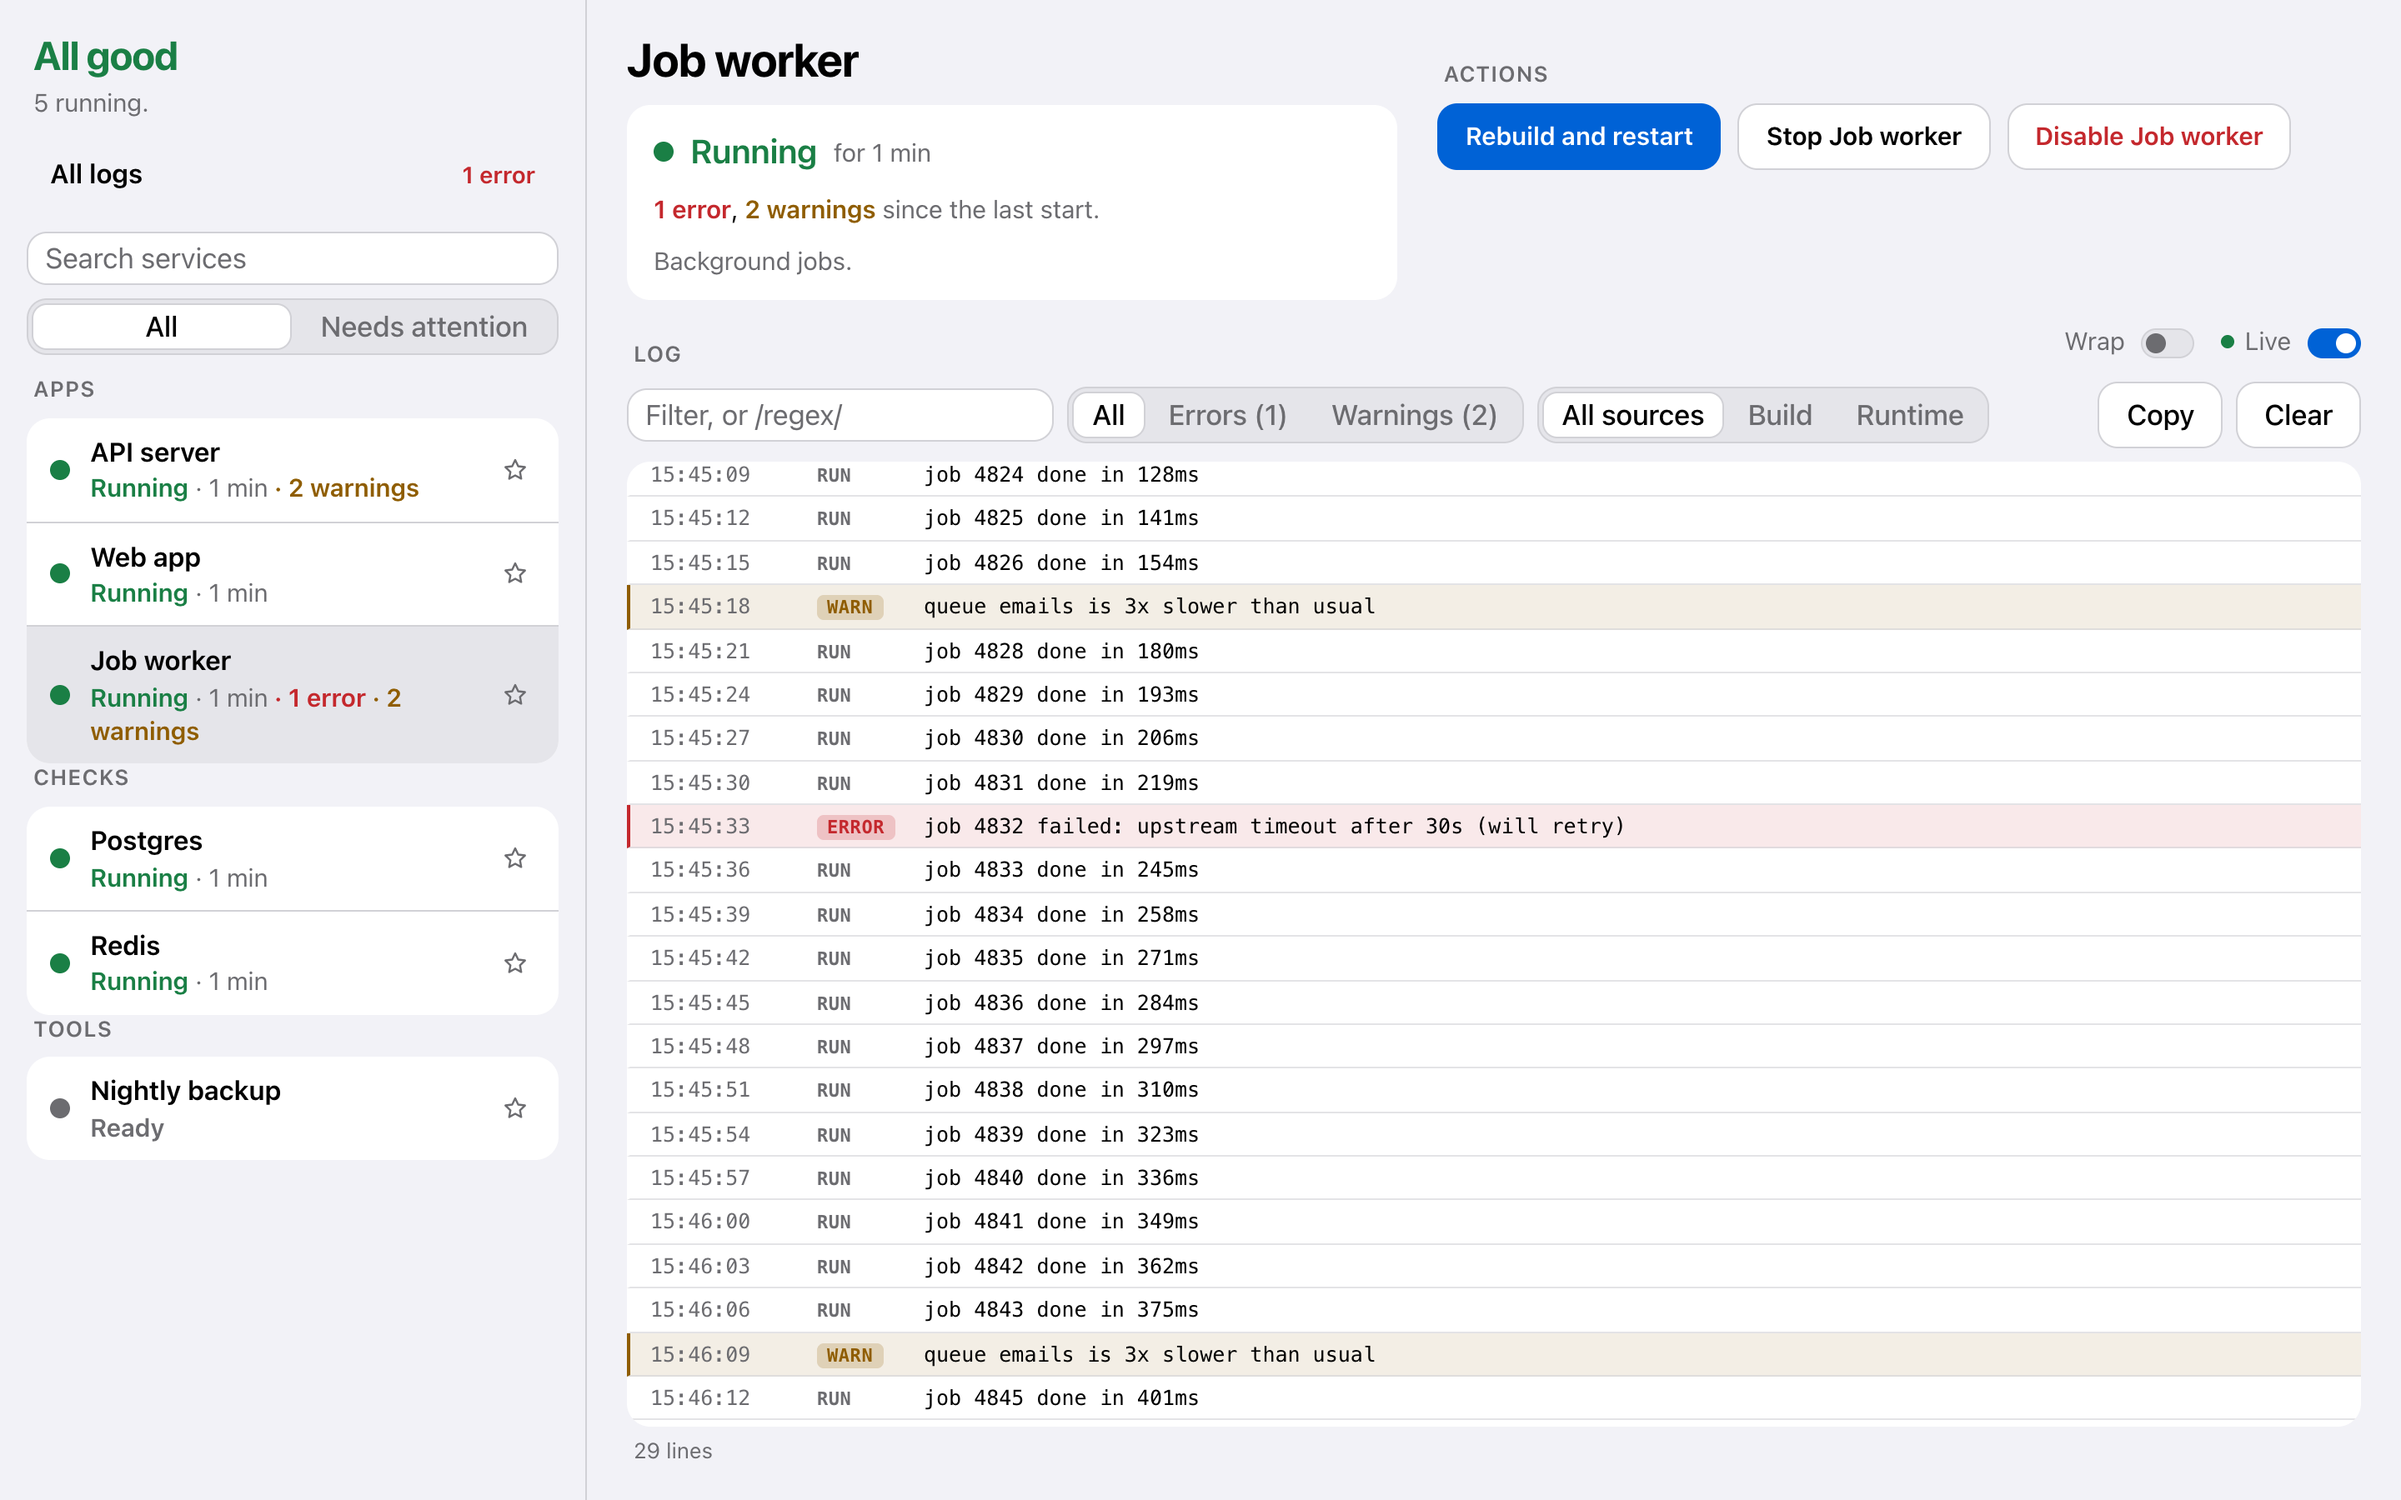
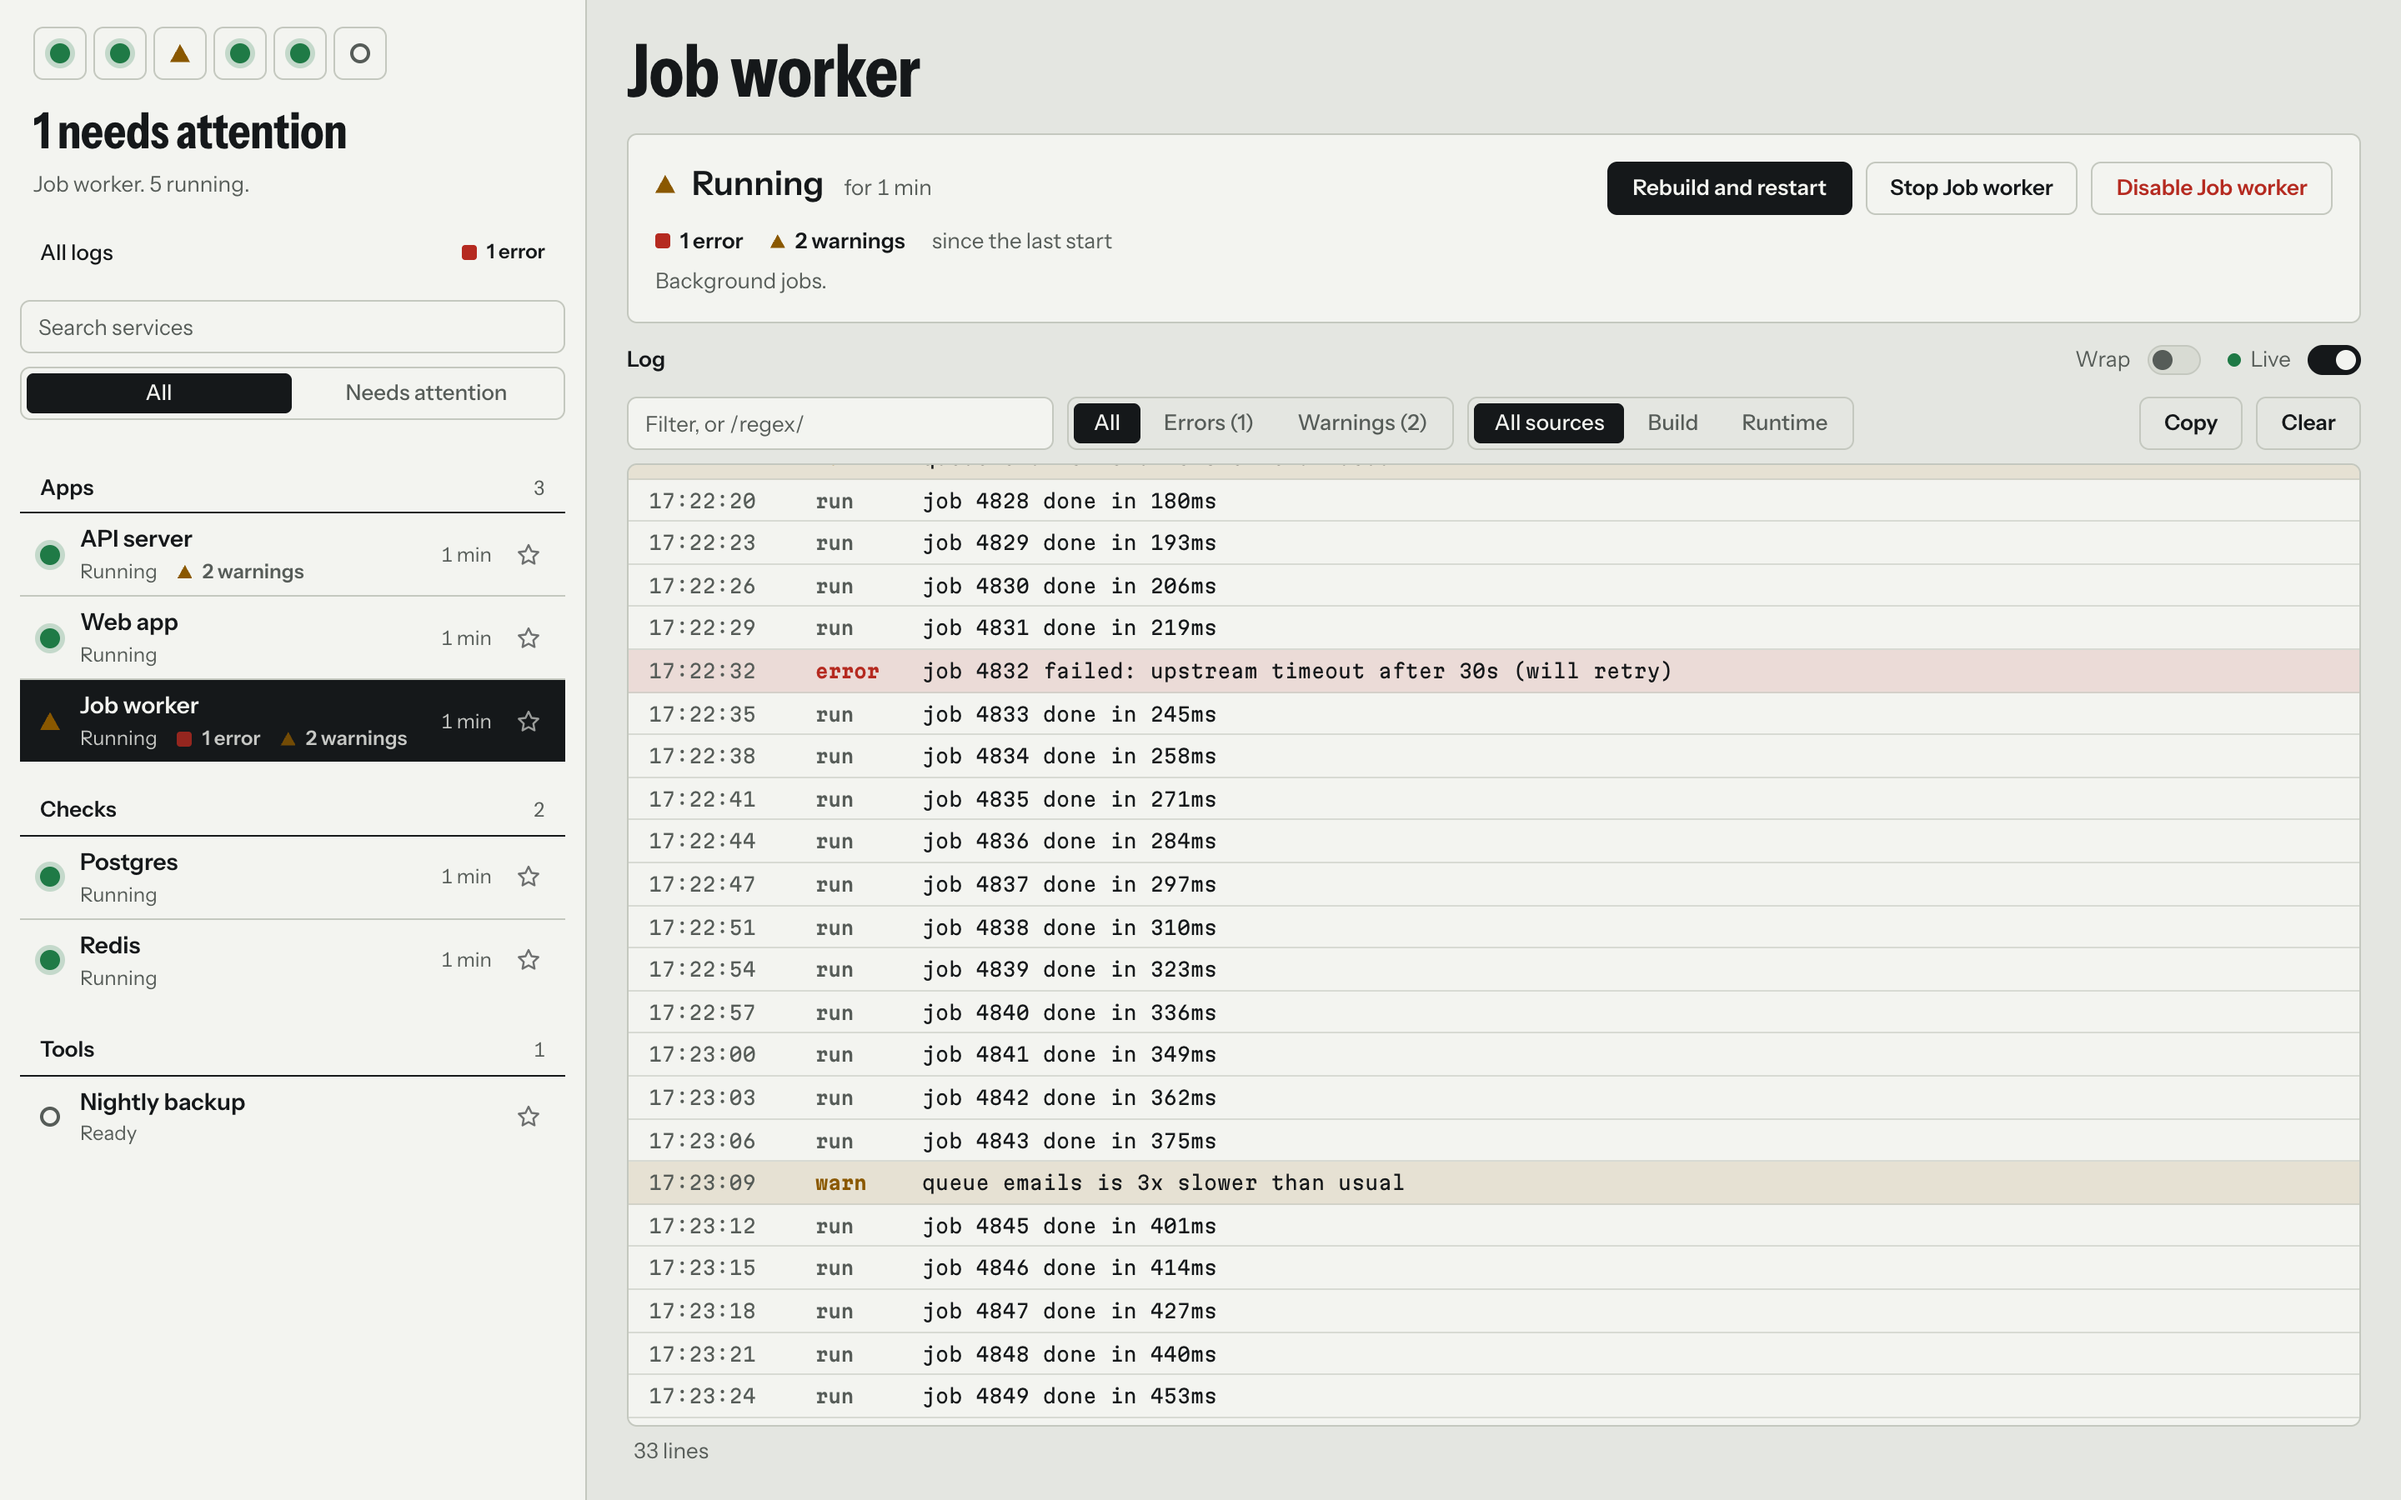
Use a single new hero screenshot in the README
Replace the three-image hero (desktop plus two phone shots), whose layout
rendered broken on GitHub, with one desktop screenshot in light and dark.

diff --git a/README.md b/README.md
@@ -11,22 +11,10 @@ One Go binary · about 17 MB of memory · no Kubernetes, no accounts
 
 <picture>
   <source media="(prefers-color-scheme: dark)" srcset="docs/screenshots/desktop-dark.png">
-  <img src="docs/screenshots/desktop-light.png" alt="Dev Hub on a PC: a list of services on the left, and the selected service with its status, actions and a live, filterable log on the right" width="900">
+  <img src="docs/screenshots/desktop-light.png" alt="Dev Hub: a row of status lamps and the service list in the sidebar, and the selected service with its status, actions and a live, filterable log" width="900">
 </picture>
 
-<br><br>
-
-<picture>
-  <source media="(prefers-color-scheme: dark)" srcset="docs/screenshots/phone-list-dark.png">
-  <img src="docs/screenshots/phone-list-light.png" alt="Dev Hub on a phone: services grouped as Apps, Checks and Tools, each with its status" width="250">
-</picture>
-&nbsp;&nbsp;&nbsp;
-<picture>
-  <source media="(prefers-color-scheme: dark)" srcset="docs/screenshots/phone-detail-dark.png">
-  <img src="docs/screenshots/phone-detail-light.png" alt="A service on a phone: its status, rebuild and stop buttons, and a log with level and source filters" width="250">
-</picture>
-
-<sub>The same page on a PC and on a phone. These are the demo services in <a href="examples/demo">examples/demo</a>.</sub>
+<sub>The demo services in <a href="examples/demo">examples/demo</a>, in light and dark. On a phone the same page becomes one column with a tab bar.</sub>
 
 </div>
 
